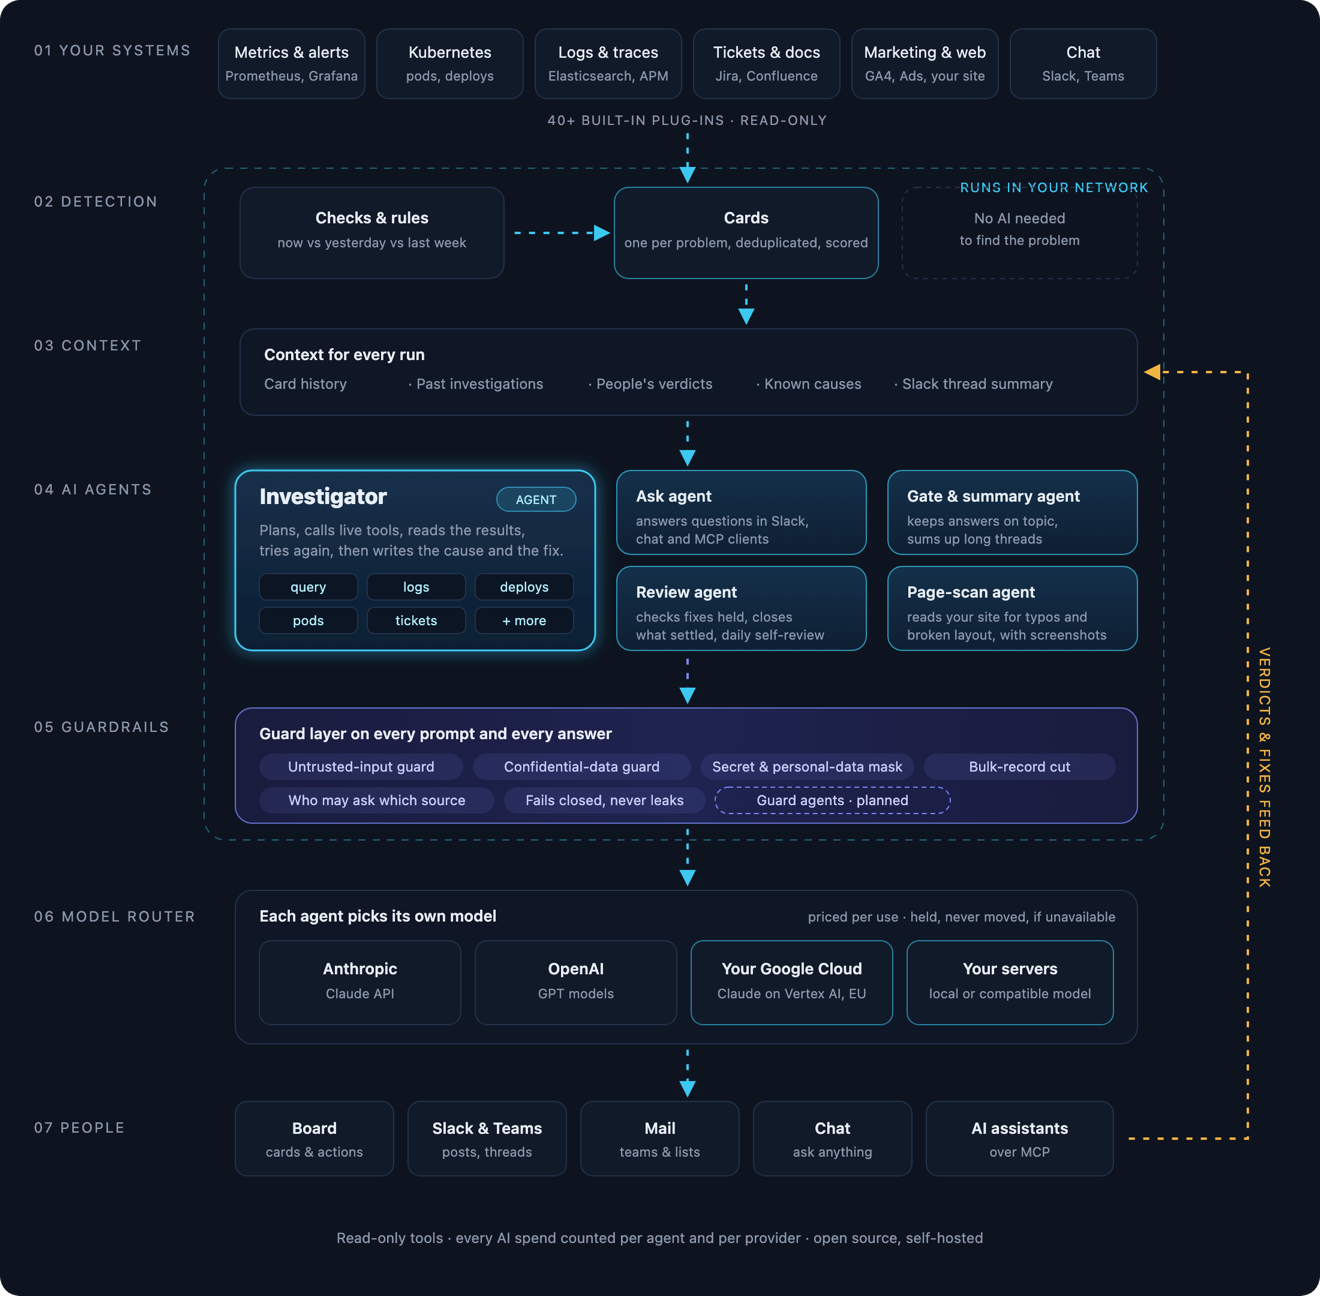
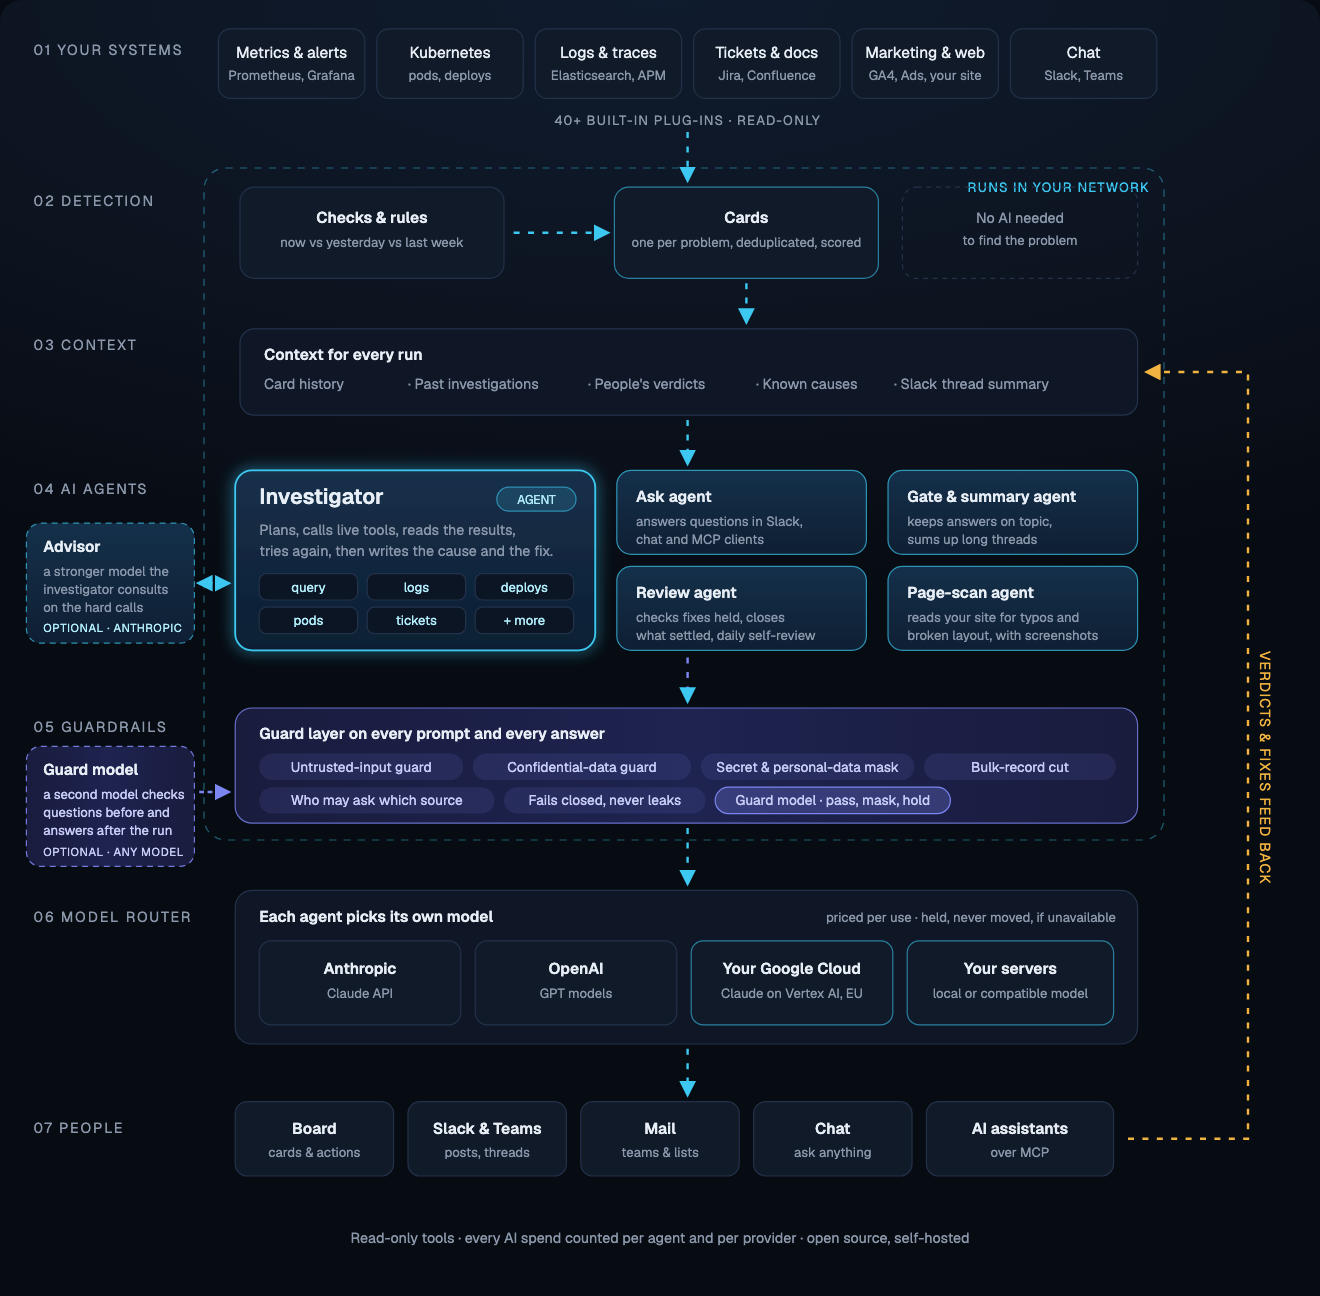
docs: advisor and guard model in the README architecture diagram

diff --git a/README.md b/README.md
@@ -47,7 +47,7 @@ Status: 0.6.4 is the current release; 0.1.0 was the first stable one. Since 0.1.
 
 ## How it works
 
-<a href="docs/images/architecture-dark.png#gh-dark-mode-only"><img width="720" src="docs/images/architecture-dark.png#gh-dark-mode-only" alt="Skopax architecture in seven layers: your systems feed checks that turn problems into cards without AI; the card history, past investigations and verdicts form the context; an investigator agent with live read-only tools and four focused agents (ask, gate and summary, review, page scan) do the AI work; a guard layer masks secrets and personal data, cuts bulk records and keeps sources out of questions; each agent picks its model (Anthropic, OpenAI, Claude on your own Google Cloud in the EU, or a local model); answers reach the board, Slack and Teams, mail, chat and MCP clients, and people's verdicts feed back into the context"></a><a href="docs/images/architecture-light.png#gh-light-mode-only"><img width="720" src="docs/images/architecture-light.png#gh-light-mode-only" alt="Skopax architecture in seven layers: your systems feed checks that turn problems into cards without AI; the card history, past investigations and verdicts form the context; an investigator agent with live read-only tools and four focused agents (ask, gate and summary, review, page scan) do the AI work; a guard layer masks secrets and personal data, cuts bulk records and keeps sources out of questions; each agent picks its model (Anthropic, OpenAI, Claude on your own Google Cloud in the EU, or a local model); answers reach the board, Slack and Teams, mail, chat and MCP clients, and people's verdicts feed back into the context"></a>
+<a href="docs/images/architecture-dark.png#gh-dark-mode-only"><img width="720" src="docs/images/architecture-dark.png#gh-dark-mode-only" alt="Skopax architecture in seven layers: your systems feed checks that turn problems into cards without AI; the card history, past investigations and verdicts form the context; an investigator agent with live read-only tools, which can consult an optional stronger advisor model, and four focused agents (ask, gate and summary, review, page scan) do the AI work; a guard layer masks secrets and personal data, cuts bulk records and keeps sources out of questions, and an optional guard model on any provider checks questions before the run and answers before they are posted; each agent picks its model (Anthropic, OpenAI, Claude on your own Google Cloud in the EU, or a local model); answers reach the board, Slack and Teams, mail, chat and MCP clients, and people's verdicts feed back into the context"></a><a href="docs/images/architecture-light.png#gh-light-mode-only"><img width="720" src="docs/images/architecture-light.png#gh-light-mode-only" alt="Skopax architecture in seven layers: your systems feed checks that turn problems into cards without AI; the card history, past investigations and verdicts form the context; an investigator agent with live read-only tools, which can consult an optional stronger advisor model, and four focused agents (ask, gate and summary, review, page scan) do the AI work; a guard layer masks secrets and personal data, cuts bulk records and keeps sources out of questions, and an optional guard model on any provider checks questions before the run and answers before they are posted; each agent picks its model (Anthropic, OpenAI, Claude on your own Google Cloud in the EU, or a local model); answers reach the board, Slack and Teams, mail, chat and MCP clients, and people's verdicts feed back into the context"></a>
 
 Checks find the problem without AI. Focused AI agents investigate and explain it behind a guard layer that masks secrets and personal data before the model reads them, and each agent can run on the AI you choose. See [What is masked](docs/privacy.md#what-is-masked) and [What Skopax will not hand out](docs/privacy.md#what-skopax-will-not-hand-out).
 
